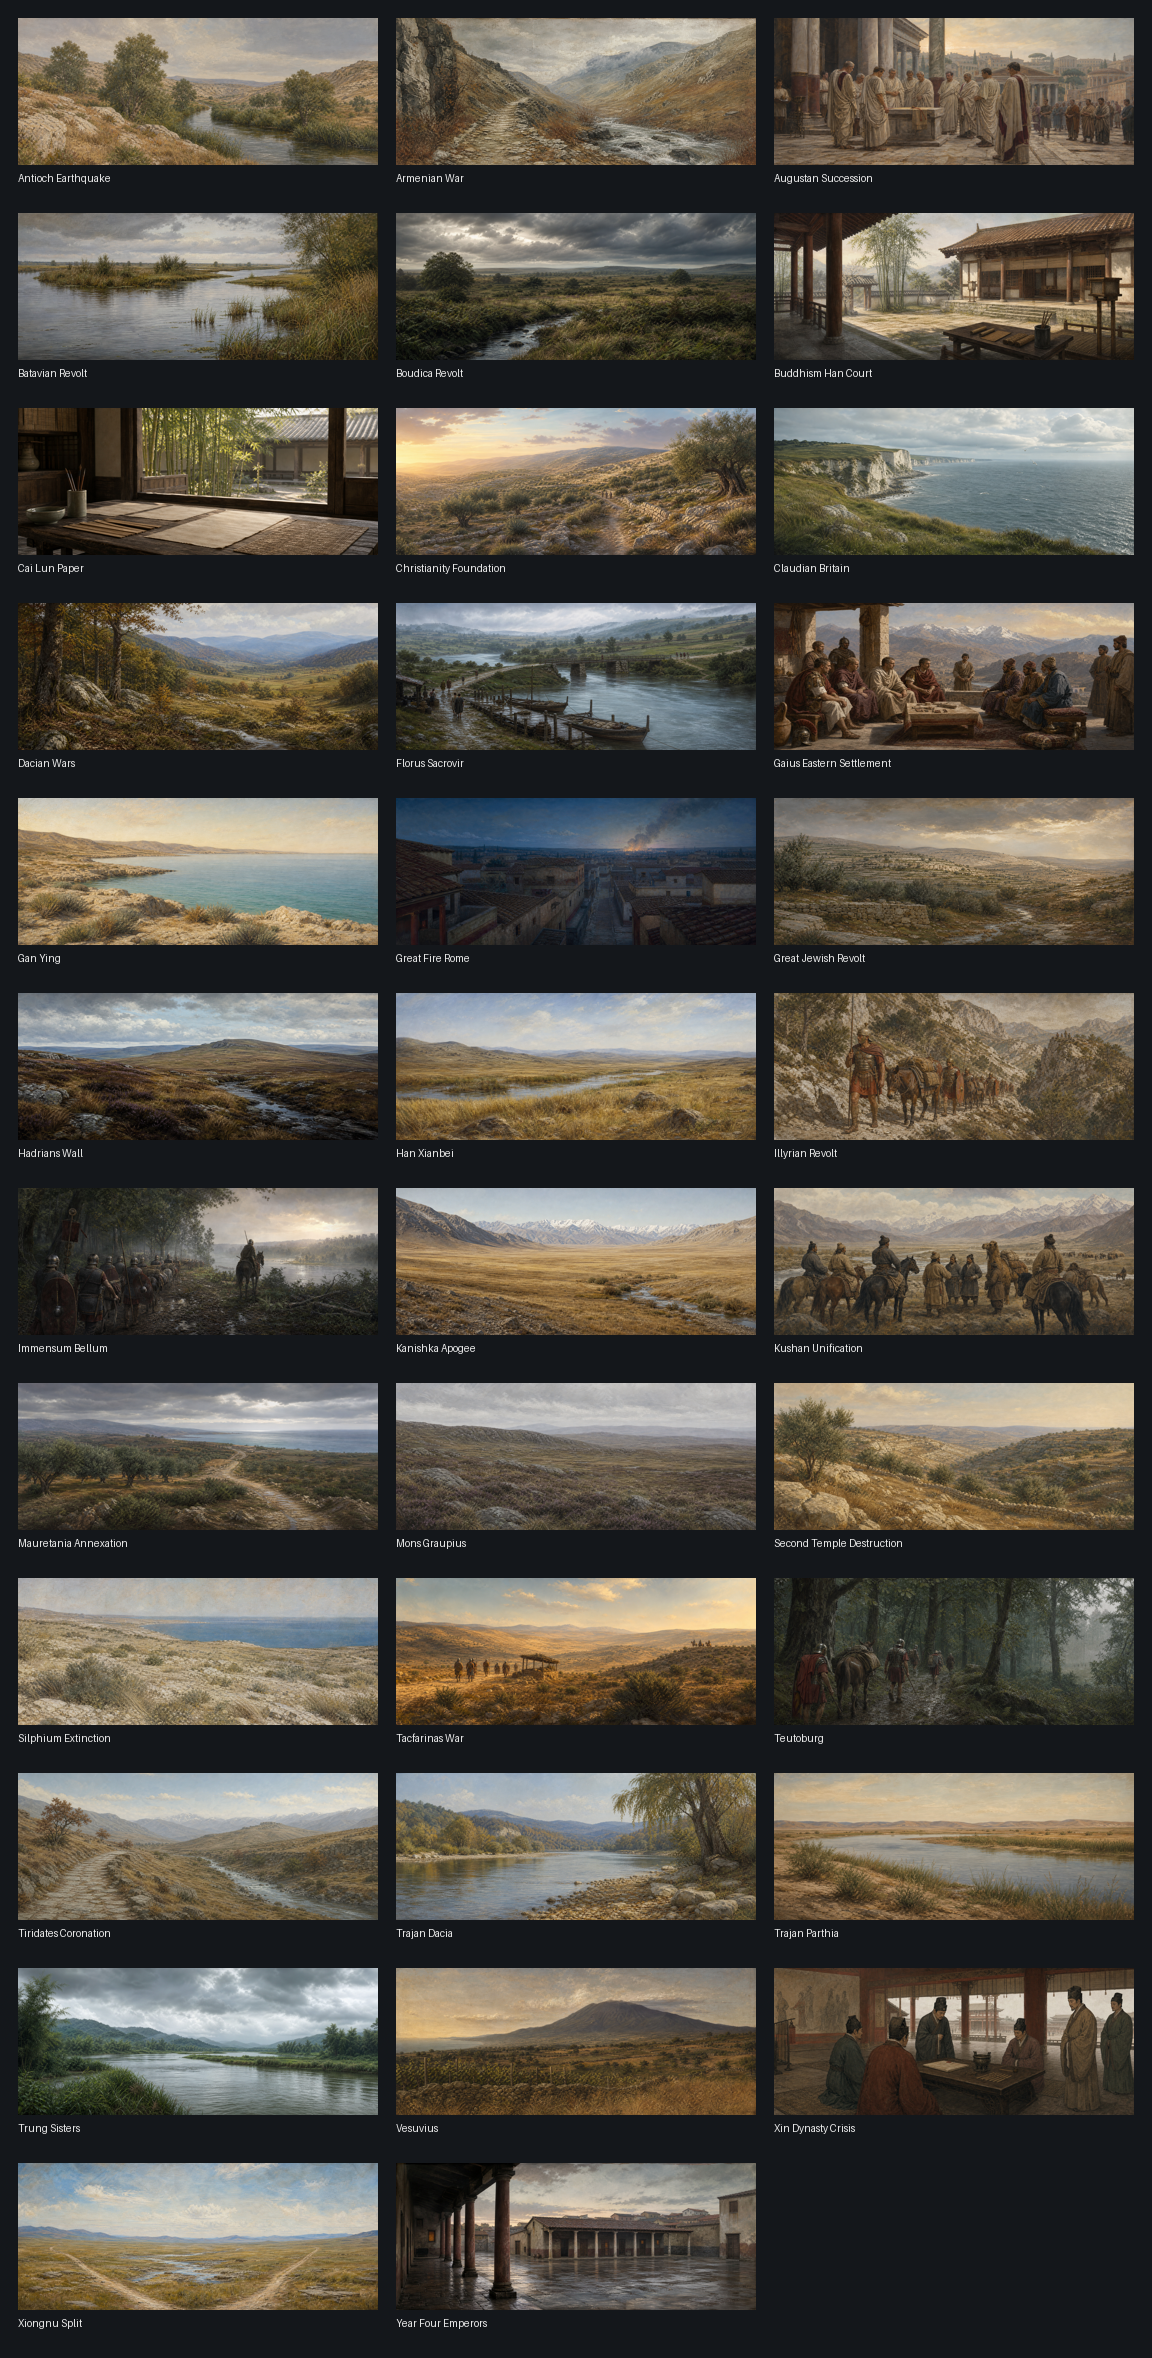
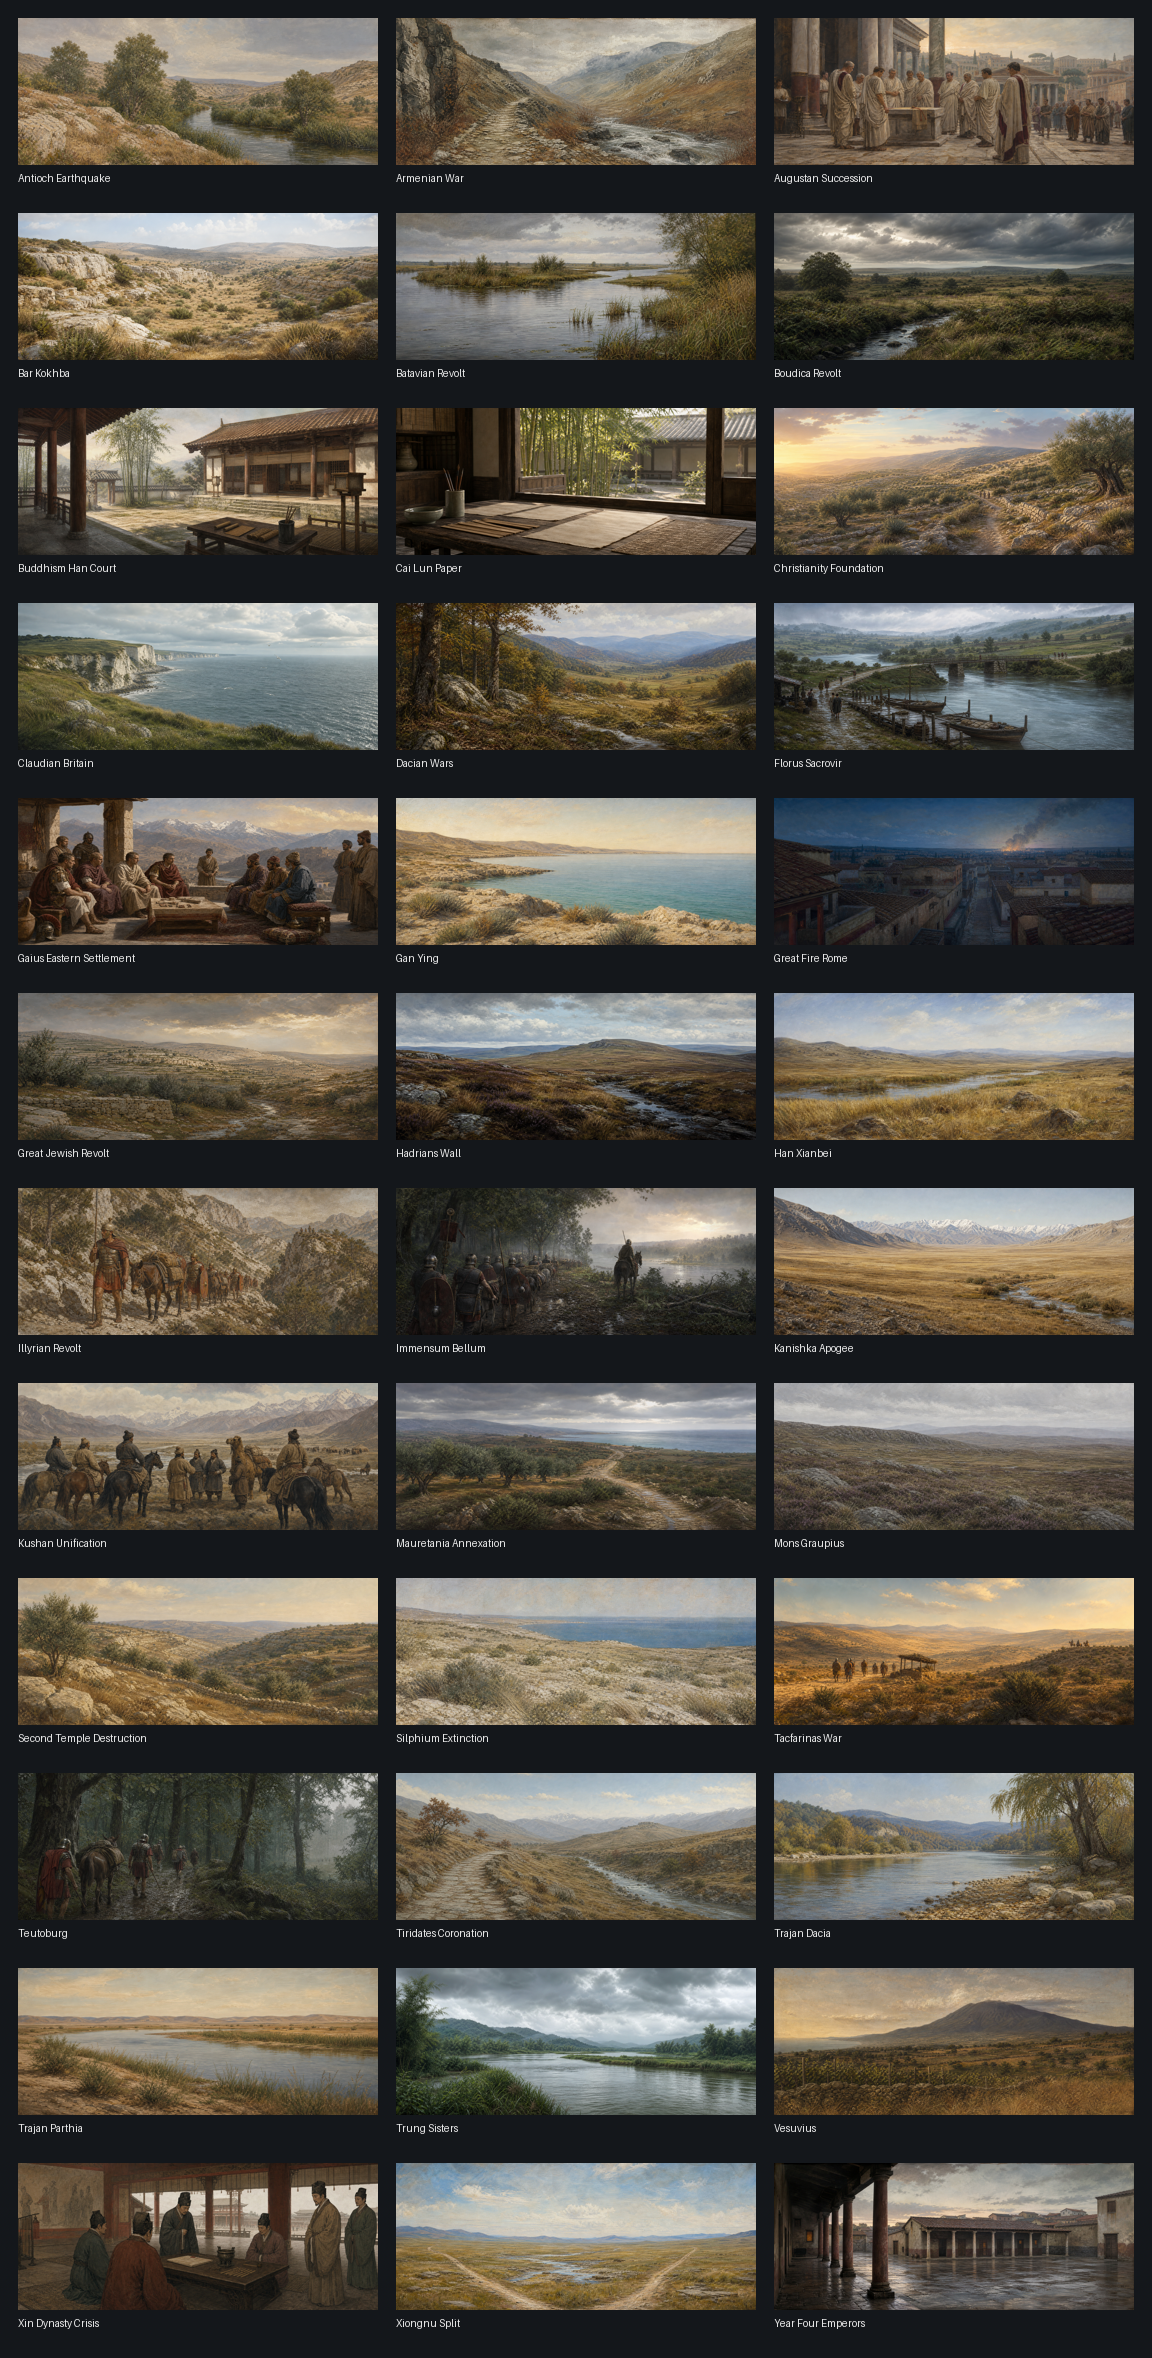
docs(m11): record Bar Kokhba art

diff --git a/docs/m11/contact_sheet.html b/docs/m11/contact_sheet.html
@@ -3,6 +3,7 @@
     <figure><img src="../../assets_queue/generated/antq_antioch_earthquake_1080x440.png" alt="Antioch Earthquake"><figcaption>Antioch Earthquake</figcaption></figure>
     <figure><img src="../../assets_queue/generated/antq_armenian_war_1080x440.png" alt="Armenian War"><figcaption>Armenian War</figcaption></figure>
     <figure><img src="../../assets_queue/generated/antq_augustan_succession_1080x440.png" alt="Augustan Succession"><figcaption>Augustan Succession</figcaption></figure>
+    <figure><img src="../../assets_queue/generated/antq_bar_kokhba_1080x440.png" alt="Bar Kokhba"><figcaption>Bar Kokhba</figcaption></figure>
     <figure><img src="../../assets_queue/generated/antq_batavian_revolt_1080x440.png" alt="Batavian Revolt"><figcaption>Batavian Revolt</figcaption></figure>
     <figure><img src="../../assets_queue/generated/antq_boudica_revolt_1080x440.png" alt="Boudica Revolt"><figcaption>Boudica Revolt</figcaption></figure>
     <figure><img src="../../assets_queue/generated/antq_buddhism_han_court_1080x440.png" alt="Buddhism Han Court"><figcaption>Buddhism Han Court</figcaption></figure>

diff --git a/docs/m11/M11_BAR_KOKHBA_ART.md b/docs/m11/M11_BAR_KOKHBA_ART.md
@@ -1,0 +1,19 @@
+# M11 Bar Kokhba illustration
+
+The retained source is `assets_queue/generated_sources/antq_bar_kokhba_source.png`;
+the 1080x440 master is `assets_queue/generated/antq_bar_kokhba_1080x440.png`;
+the game-facing BC7 DDS is
+`main_menu/gfx/interface/illustrations/event/antq_bar_kokhba.dds`.
+
+The text-free image is generic Judean limestone context: an empty ravine, pale
+rock shelves, dry grass, low natural shrubs, and distant rounded hills. It
+identifies no person, revolt, polity, settlement, religious material, route,
+date, or outcome. It is not a reconstruction of the Bar Kokhba revolt or its
+participants.
+
+`EVENT_IMAGES` in `tools/m10_second_century.py` owns the
+`antq_m10_second.2007` link. The inspected 1080x440 BC7 texture passed
+`make validate` and enabled-mod `make smoke` with zero new error-log lines.
+
+Sources: ANTIQVITAS master plan sections 8.1, 9, 11, and 20; local EU5
+country-event image contract.

diff --git a/docs/ASSUMPTIONS.md b/docs/ASSUMPTIONS.md
@@ -1,5 +1,16 @@
 # Historical Assumptions
 
+## 2026-07-20 - Bar-Kokhba art is landscape-only Judean context
+
+The image is an unoccupied Judean limestone ravine with pale rock shelves, dry
+grass, low natural shrubs, and distant rounded hills. It identifies no person,
+revolt, polity, city, village, route, religious material, animal, action, date,
+or outcome. It deliberately excludes architecture, caves, temples, synagogues,
+ritual material, symbols, ruins, military material, and siege imagery; it is not
+a reconstruction of the Bar Kokhba revolt or its participants. Sources weighed:
+P8.1; plan sections 9, 11, and 20. [secure broad regional context;
+illustrative composition only]
+
 ## 2026-07-20 - Kanishka-apogee art is landscape-only Central-Asian context
 
 The image is an unoccupied Central-Asian highland basin with dry grass, stony

diff --git a/docs/PROGRESS.md b/docs/PROGRESS.md
@@ -1,5 +1,15 @@
 # Progress
 
+## 2026-07-20 - M11 Bar Kokhba event illustration
+
+- Added a reviewed, landscape-only Judean limestone image to the AD 132 Bar
+  Kokhba Revolt current through the generated event-image contract.
+- The engine-sized BC7 texture was round-trip inspected; `make validate` and
+  enabled-mod smoke are green with zero new error-log lines. The maintained M11
+  contact sheet now has thirty-six retained event masters.
+
+Next: continue the M11 later-century art queue and source-led M5/M6 audit.
+
 ## 2026-07-20 - M11 Kanishka-apogee event illustration
 
 - Added a reviewed, landscape-only Central-Asian highland image to the AD 127

diff --git a/docs/TODO.md b/docs/TODO.md
@@ -223,7 +223,8 @@ after `make full` and its autonomous driver report are green.
 - [x] Generate, dimension-check, round-trip review, wire, and smoke-test the AD 115 Antioch earthquake event illustration through a landscape-only Orontes-valley treatment.
 - [x] Generate, dimension-check, round-trip review, wire, and smoke-test the AD 122 Hadrian's Wall event illustration through a landscape-only northern-British upland treatment.
 - [x] Generate, dimension-check, round-trip review, wire, and smoke-test the AD 127 Kanishka-apogee event illustration through a landscape-only Central-Asian highland treatment.
-- [x] Render and review the maintained M11 event-art contact sheet (35 retained 1080x440 masters).
+- [x] Generate, dimension-check, round-trip review, wire, and smoke-test the AD 132 Bar Kokhba revolt event illustration through a landscape-only Judean limestone treatment.
+- [x] Render and review the maintained M11 event-art contact sheet (36 retained 1080x440 masters).
 - [ ] Reach event/decision targets; finish flags, icons, illustrations, loading/age art, localization, glossary, and credits.
 - [ ] Remove common-screen placeholders; run milestone gate and tag `M11-done`.
 

diff --git a/docs/m11/M11_CONTACT_SHEET.md b/docs/m11/M11_CONTACT_SHEET.md
@@ -5,7 +5,7 @@ every retained `assets_queue/generated/antq_*_1080x440.png` master. The HTML
 is the browsable review surface; the PNG is the compact visual record suitable
 for inclusion in the M11 milestone report.
 
-The current review contains thirty-five 1080x440 event masters. It was inspected for
+The current review contains thirty-six 1080x440 event masters. It was inspected for
 omissions, clipped labels, incorrect aspect ratios, readable text, watermarks,
 or obvious anachronistic material. Individual asset records retain the more
 specific historical-scope findings and engine checks.